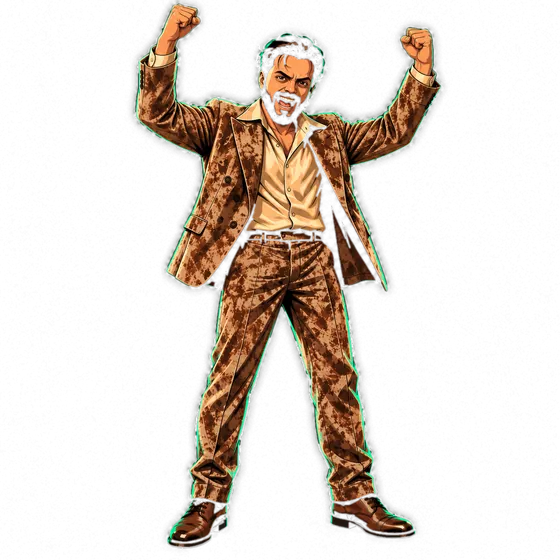
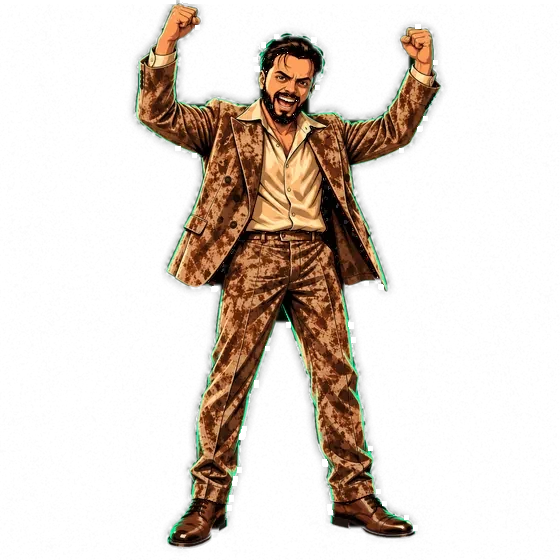
Your character: no longer see-through
The original cut-out left his dark hair, beard and shirt partly transparent,
so the stage showed through. All 8 poses are now solid inside the outline
(src-fill.py), with the soft edge kept.

Claude-Session: https://claude.ai/code/session_01W3ujS3ZPCVH4VFxPDwhmdx

diff --git a/sw.js b/sw.js
@@ -1,5 +1,5 @@
 /* Keeps the app and its recordings and pictures on the device so it works offline. */
-const CACHE = "word-trainer-v38";
+const CACHE = "word-trainer-v39";
 const VOX = "word-trainer-voice-1";  /* Socrates' studio voice (vox-*): kept between app updates so it only downloads once. Change the number after rebuilding it with src-voice.py. */
 const CORE = ["./", "index.html", "manifest.webmanifest", "icon-192.png", "icon-512.png"];
 const MEDIA = ["wm-aesop-angry.webp", "wm-aesop-base.webp", "wm-aesop-excited.webp", "wm-aesop-idle.webp", "wm-aesop-lose.webp", "wm-aesop-right.webp", "wm-aesop-sweat.webp", "wm-aesop-win.webp", "wm-aesop-wrong.webp", "wm-aristotle-angry.webp", "wm-aristotle-excited.webp", "wm-aristotle-idle.webp", "wm-aristotle-lose.webp", "wm-aristotle-right.webp", "wm-aristotle-sweat.webp", "wm-aristotle-win.webp", "wm-aristotle-wrong.webp", "wm-dee-angry.webp", "wm-dee-excited.webp", "wm-dee-idle.webp", "wm-dee-lose.webp", "wm-dee-right.webp", "wm-dee-sweat.webp", "wm-dee-win.webp", "wm-dee-wrong.webp", "wm-galen-angry.webp", "wm-galen-excited.webp", "wm-galen-idle.webp", "wm-galen-lose.webp", "wm-galen-right.webp", "wm-galen-sweat.webp", "wm-galen-win.webp", "wm-galen-wrong.webp", "wm-herodotus-angry.webp", "wm-herodotus-excited.webp", "wm-herodotus-idle.webp", "wm-herodotus-lose.webp", "wm-herodotus-right.webp", "wm-herodotus-sweat.webp", "wm-herodotus-win.webp", "wm-herodotus-wrong.webp", "wm-hypatia-angry.webp", "wm-hypatia-excited.webp", "wm-hypatia-idle.webp", "wm-hypatia-lose.webp", "wm-hypatia-right.webp", "wm-hypatia-sweat.webp", "wm-hypatia-win.webp", "wm-hypatia-wrong.webp", "wm-ibnkhaldun-angry.webp", "wm-ibnkhaldun-excited.webp", "wm-ibnkhaldun-idle.webp", "wm-ibnkhaldun-lose.webp", "wm-ibnkhaldun-right.webp", "wm-ibnkhaldun-sweat.webp", "wm-ibnkhaldun-win.webp", "wm-ibnkhaldun-wrong.webp", "wm-podium.webp", "wm-socrates-applaud.webp", "wm-socrates-ask.webp", "wm-socrates-base.webp", "wm-socrates-correct.webp", "wm-socrates-curious.webp", "wm-socrates-no.webp", "wm-socrates-point.webp", "wm-socrates-sigh.webp", "wm-socrates-trophy.webp", "wm-stage-dark.jpg", "wm-stage.jpg", "wm-you-angry.webp", "wm-you-excited.webp", "wm-you-idle.webp", "wm-you-lose.webp", "wm-you-right.webp", "wm-you-sweat.webp", "wm-you-win.webp", "wm-you-wrong.webp"];

diff --git a/src-fill.py b/src-fill.py
@@ -1,0 +1,31 @@
+# Run from the repo root: python3 src-fill.py <name>  (e.g. you). Makes an already cut-out character solid inside
+# his outline: the old cut-out of Urch's own character left his dark hair, beard and shirt see-through. Writes in place.
+import numpy as np
+from PIL import Image, ImageFilter
+import sys
+name = sys.argv[1]
+L = lambda m: Image.fromarray((m*255).astype(np.uint8)); F = lambda m, f: np.asarray(L(m).filter(f)) > 127
+def flood(allowed, seed):
+    for _ in range(2000):
+        nxt = F(seed, ImageFilter.MaxFilter(3)) & allowed
+        if (nxt == seed).all(): return seed
+        seed = nxt
+    return seed
+P = ["idle", "right", "wrong", "sweat", "angry", "excited", "win", "lose"]
+for i, p in enumerate(P):
+    im = Image.open(f"wm-{name}-{p}.webp").convert("RGBA"); px = np.asarray(im).astype(np.float32)
+    a = px[..., 3]; m = a > 60
+    closed = F(F(m, ImageFilter.MaxFilter(15)), ImageFilter.MinFilter(15))
+    edge = np.zeros_like(closed); edge[[0, -1], :] = True; edge[:, [0, -1]] = True
+    inside = ~flood(~closed, edge & ~closed)
+    rows = np.nonzero((a > 30).sum(1) > 14)[0]; inside[:rows.min() + 2] = False   # nothing above the top of his hair
+    core = F(inside, ImageFilter.MinFilter(5))                       # keep the soft outer edge as it was
+    na = np.maximum(a, np.asarray(L(core).filter(ImageFilter.GaussianBlur(1.2))).astype(np.float32))
+    # colour under very low alpha was stored darkened: where alpha was tiny, lift it towards the true dark hair colour
+    from scipy import ndimage
+    lab, n = ndimage.label(na > 40); sizes = ndimage.sum(np.ones_like(na), lab, range(1, n + 1))
+    small = np.isin(lab, [k + 1 for k, z in enumerate(sizes) if z < 400])
+    na = np.where(F(small, ImageFilter.MaxFilter(5)), 0, na)
+    na[:rows.min()] = np.minimum(na[:rows.min()], a[:rows.min()] * (a[:rows.min()] > 30))          # tiny stray marks around him
+    out = px.copy(); out[..., 3] = na
+    o = Image.fromarray(out.astype(np.uint8), "RGBA"); o.save(f"wm-{name}-{p}.webp", "WEBP", quality=88, method=6); print(p)

diff --git a/CLAUDE.md b/CLAUDE.md
@@ -21,6 +21,7 @@ Claude artifact version (same app, Claude-hosted, syncs via the artifact db): ht
 - `src-seed.json` — starting progress/words/pictures for a brand-new device only.
 - `wm-*.webp/jpg` — Word Master characters (8 poses each, 560x560), stage and podium (the original 45 are also in the artifact's published files; specialists aren't yet).
 - `src-cutout.py` — `python3 src-cutout.py <name> <8 pose images in order idle,right,wrong,sweat,angry,excited,win,lose>` cuts Urch's ChatGPT poses out (free isnet-anime model from the rembg GitHub release, downloaded once) and writes `wm-<name>-<pose>.webp`. It adds back dark-green cloaks the model drops; `--dark` for near-black outfits (cut by colour). Look at the results before wiring in.
+- `src-fill.py` — `python3 src-fill.py <name>` makes an existing cut-out character solid inside its outline (used on `you`, whose dark hair, beard and shirt were see-through). Overwrites the files, so check the result.
 - `vox-*` — Socrates' studio voice (Piper `en_GB-alan` medium, free, runs in the browser). `vox-worker.js` is hand-written (loads ONNX Runtime + espeak-ng, turns text into audio, one sentence at a time). The rest are generated by `python3 src-voice.py` (needs npm and curl; the voice comes from the sherpa-onnx GitHub release because Hugging Face is blocked from the Claude container): `vox-alan-1/2/3.bin` (the 63 MB model split under GitHub's 25 MB web-upload limit), `vox-alan.json`, `vox-ort*.mjs/.wasm` (onnxruntime-web 1.20.1), `vox-phon.js/.wasm/.data` (espeak-ng, data cut to English only). GitHub version only — too big for the artifact (15 MB per file), which falls back to the browser voice.
 - `README.md` — Urch's own, leave it.
 - The source still holds older code for Arabic decks (Qur'anic / Darija, with `a??.mp3` / `i??.jpg` paths). Those media files are NOT in the repo; Arabic is planned as a separate app. Don't remove that code without asking.
